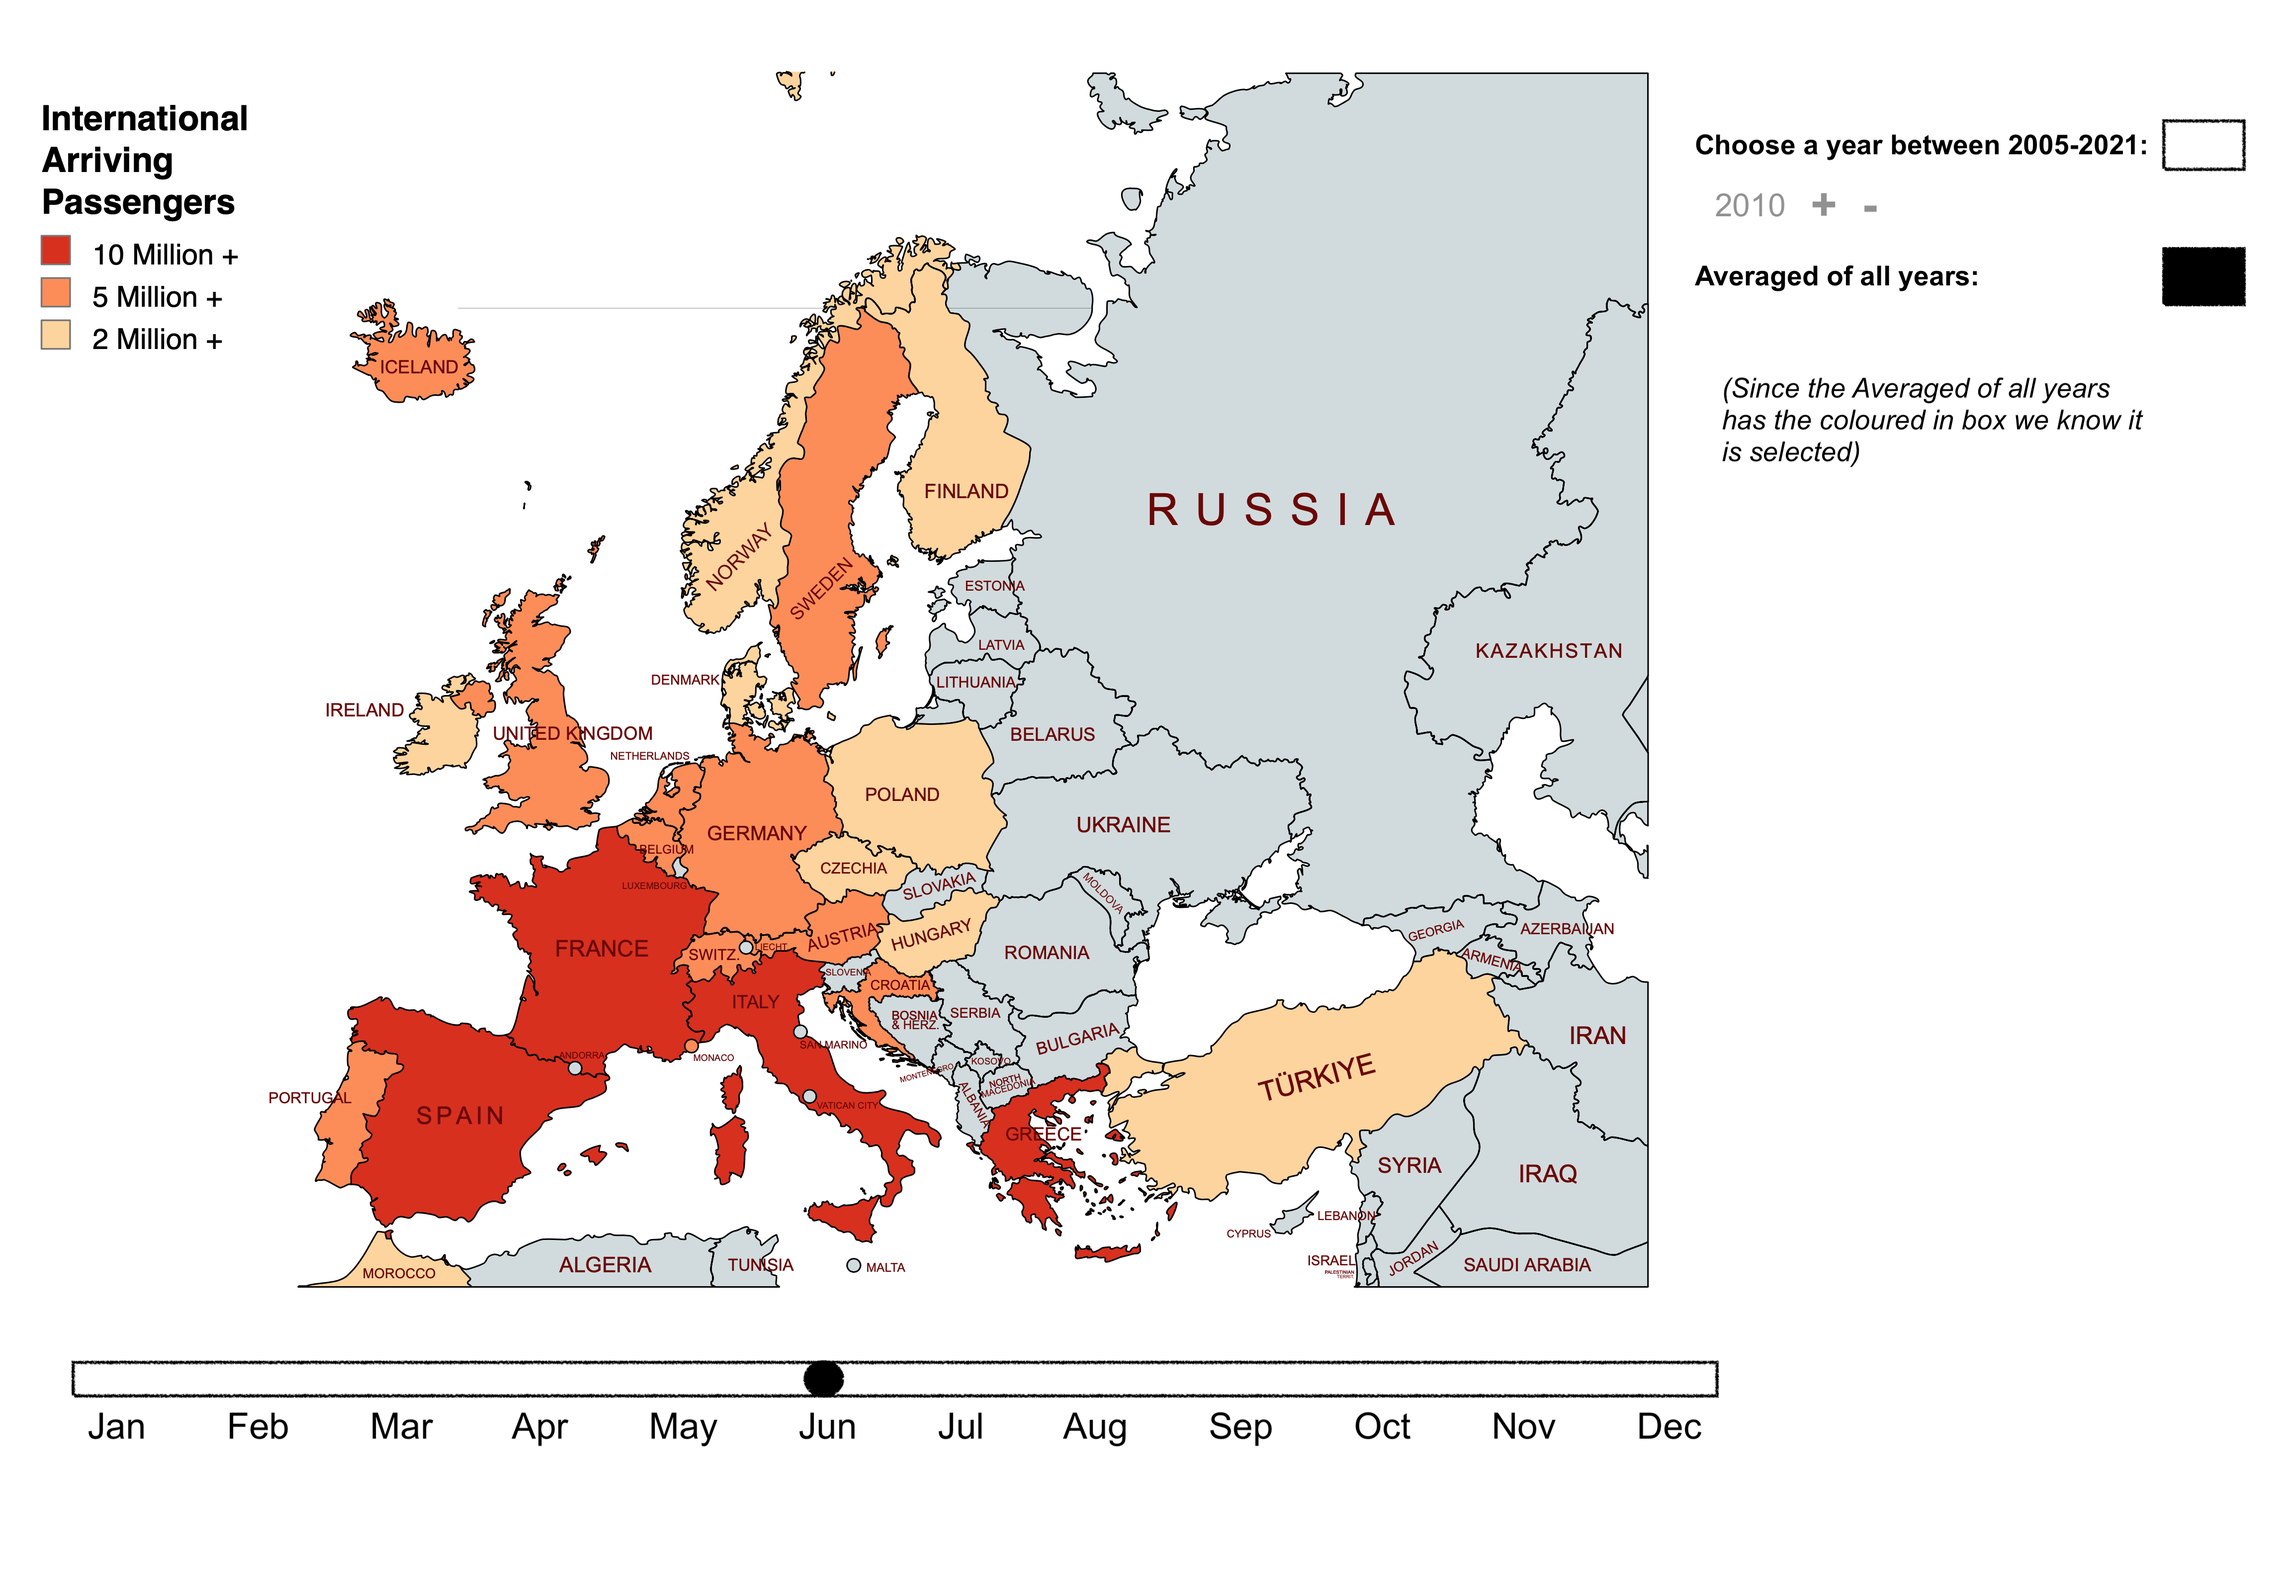
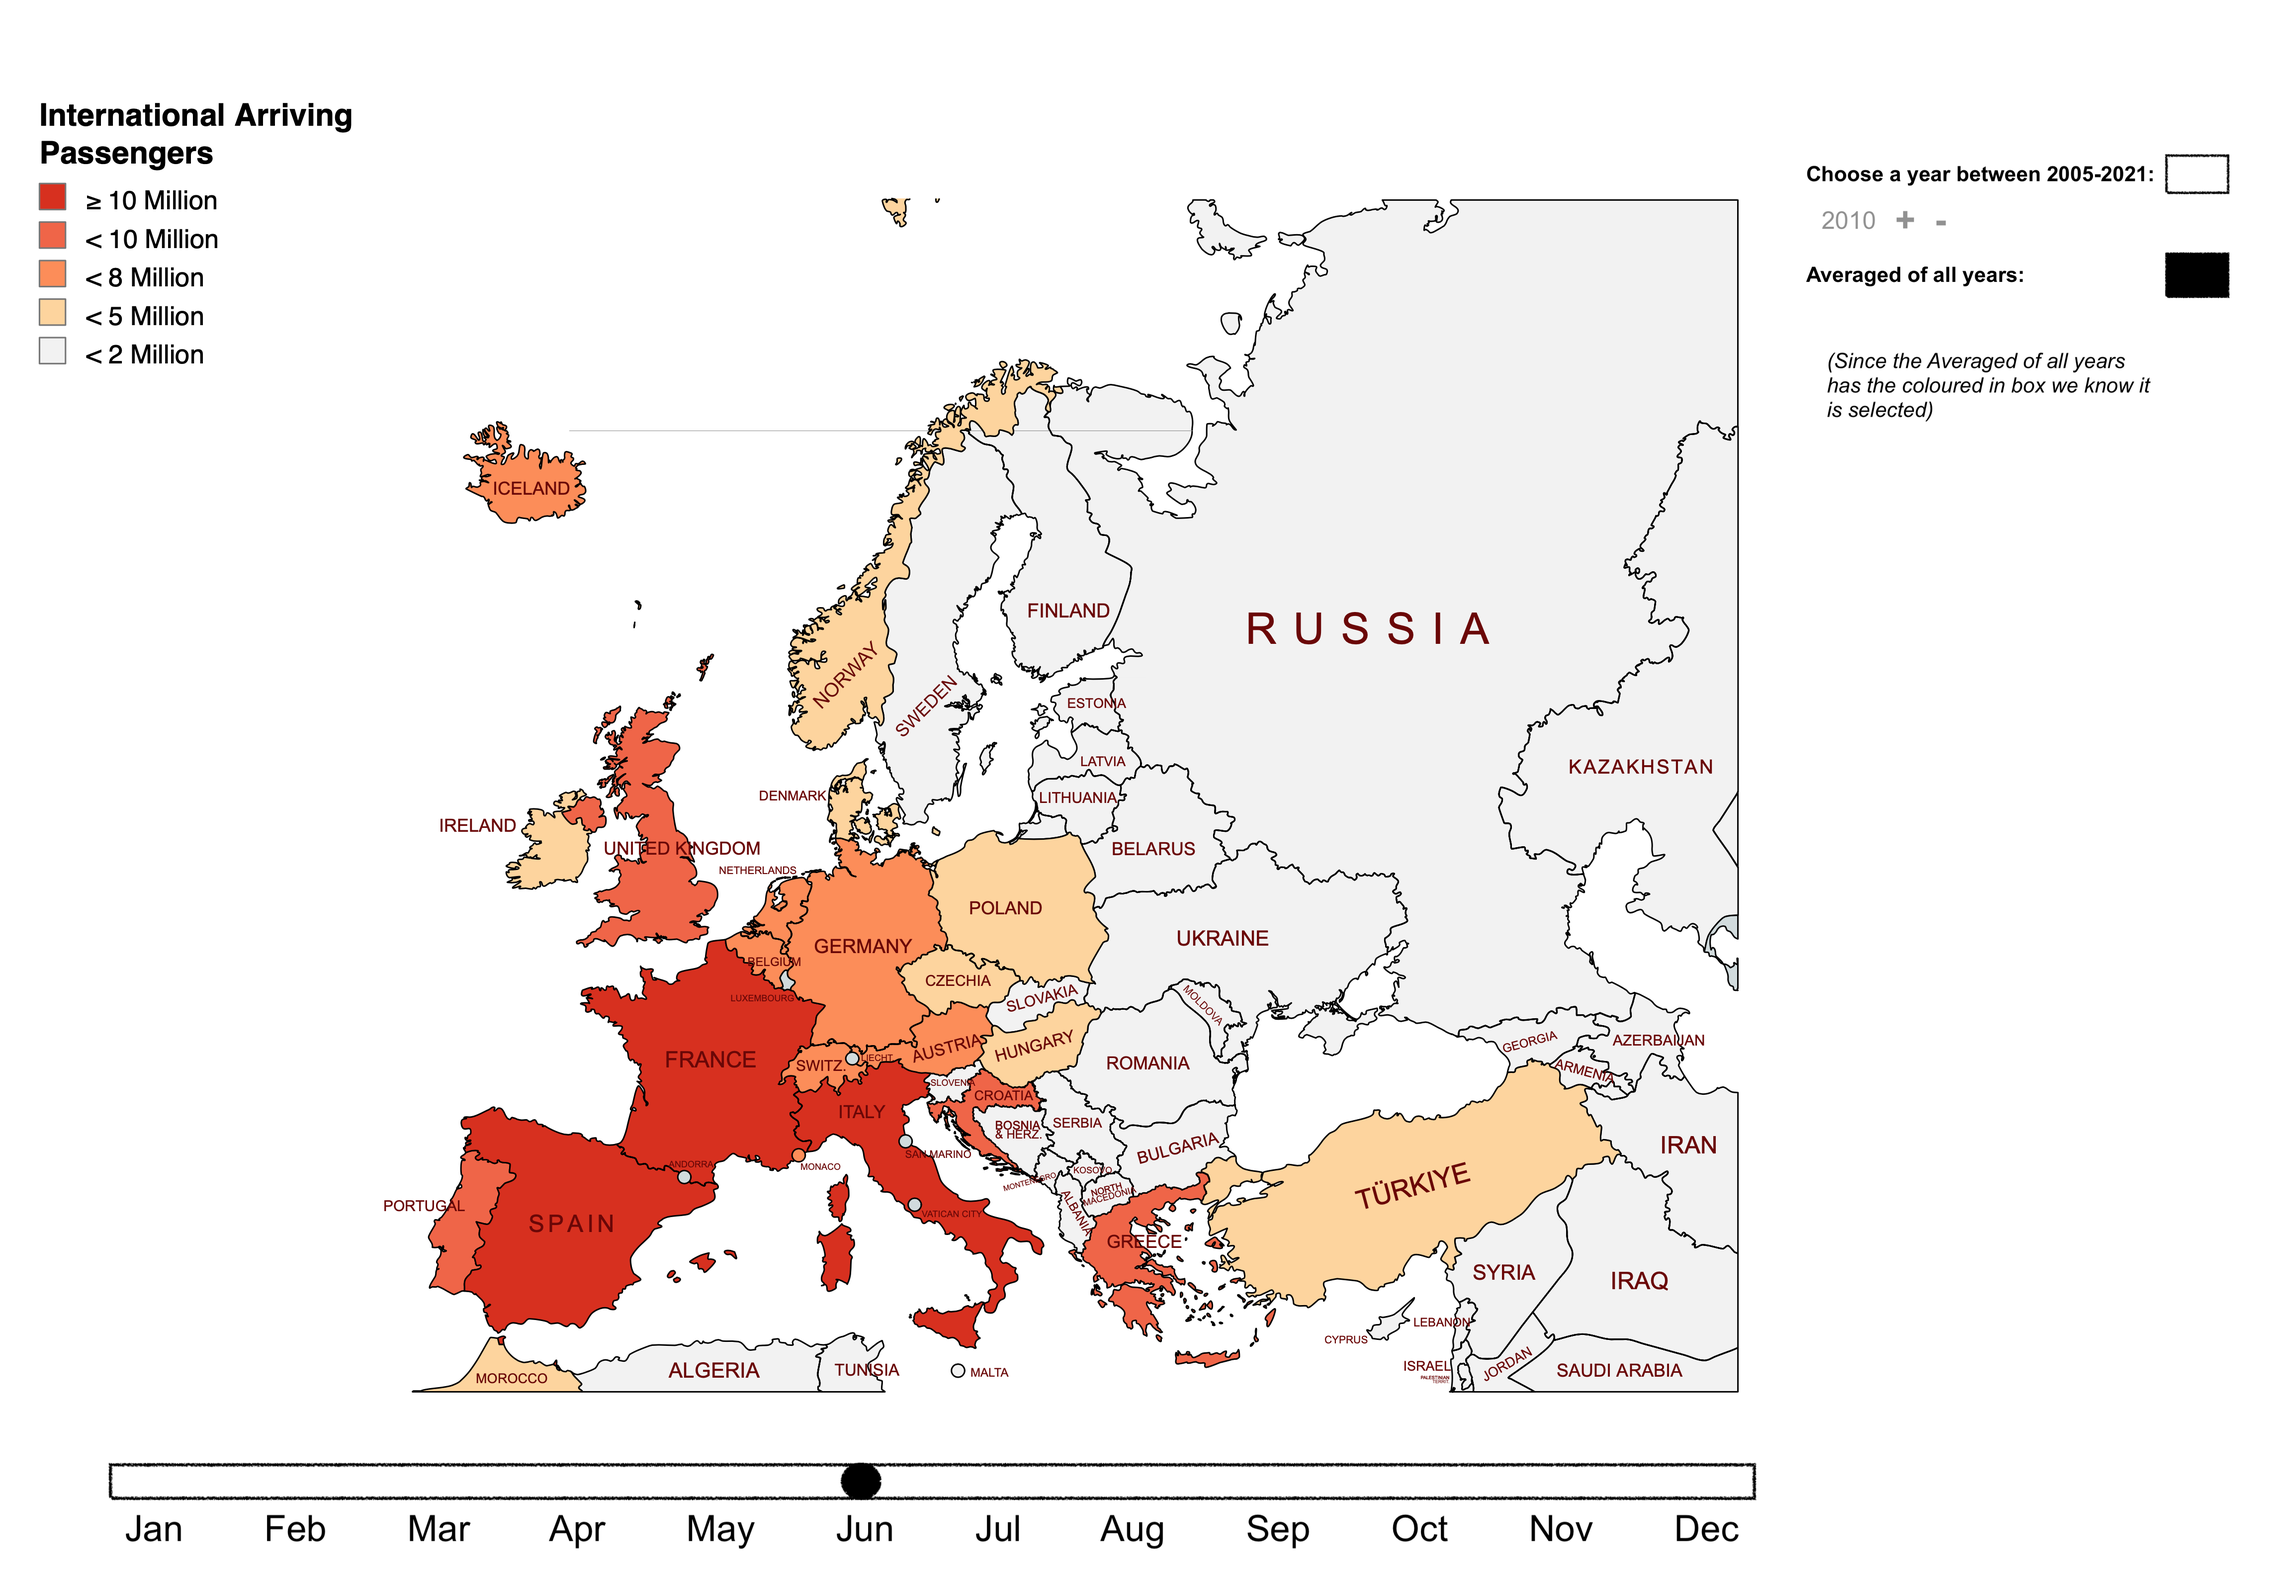
New Map and added description

diff --git a/index.html b/index.html
@@ -42,16 +42,19 @@
         }
         section {
             padding: 20px;
-            height: 100vh; /* Set height to full viewport height */
+            height: 125vh; /* Set height to full viewport height */
             overflow-y: auto; /* Add vertical scrollbar if content exceeds viewport */
         }
         h2 {
             color: darkslateblue;
+            text-align: center; /* Center align headings */
+        }
+        p {
+            text-align: justify; /* Justify paragraph text */
         }
     </style>
 </head>
 <body>
-    <center>
     <header>
         <nav>
             <ul>
@@ -66,7 +69,7 @@
         <section id="home">
             <br>
             <br>
-            <center><h2>Tourism in Europe Throughout the Year</h2></center>
+            <h2>Tourism in Europe Throughout the Year</h2>
             <p>The tourism industry in Europe generates a lot of income for many different countries. 
                 Europe receives hundreds of millions of tourists each year which oftentimes leads to crowding, especially near tourist attractions.
                 Some people do not mind the clutter, yet many tourists struggle to find the right time to visit a country in Europe when it is least touristy.
@@ -84,14 +87,25 @@
                 <br>
                 <br>
                 &nbsp;&nbsp;&nbsp;<b>3.</b> How does the number of passengers entering each country change throughout the year?
-                </p>
+            </p>
         </section>
         <section id="viz1">
             <br>
             <br>
             <h2>Map of International Passengers Arriving Throughout the Year</h2>
-            <p>In this viz we show...</p>
-            <center><img src="International_Arriving_Passengers.png" width="800"></center>
+            <p>This visualization allows the user to see how busy a country is with tourists in each given month and how it changes throughout the years.
+                Users can explore the data through an interactive map and slider. Key features include:
+                <br>
+                <br>
+                &nbsp;&nbsp;&nbsp;1. <b>Map Representation</b>: A map of Europe displaying countries colored according to tourist "busyness," with darker red indicating /”hotter” tourist activity and lighter red indicating lower/”less hot” activity.
+                <br>
+                &nbsp;&nbsp;&nbsp;2. <b>Interactive Slider</b>: Users can select a specific month to observe changes in tourist activity throughout the year.
+                <br>
+               &nbsp;&nbsp;&nbsp;3. <b>Year Selection</b>: Users can choose between viewing the average tourist activity from 2005 to 2020 or select a specific year within that range.
+                <br>
+                &nbsp;&nbsp;&nbsp;4. <b>Hover Information</b>: Hovering over a country reveals the total number of international passengers arriving in that country for the selected month.</p>
+                 <br>
+                <img src="International_Arriving_Passengers.png" width="800" style="display: block; margin: 0 auto;"> <!-- Center image -->
         </section>
         <section id="viz2">
             <br>
@@ -105,6 +119,5 @@
             <h2>Demo Video</h2>
         </section>
     </div>
-</center>
 </body>
 </html>
